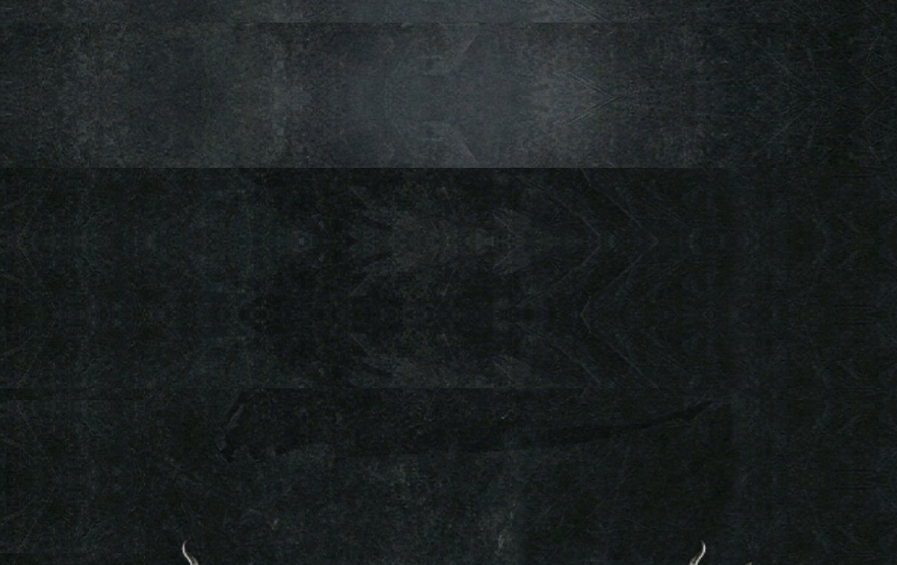
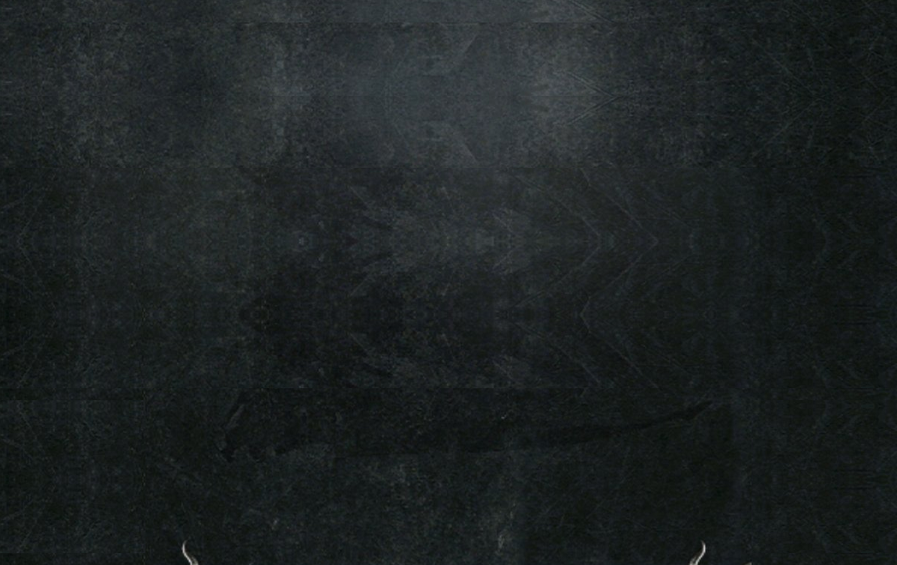
NB fix 258: panel statystyk - pasek naglowka bez smugi, wyrownane tlo, mniejsza cyfra poziomu
Claude-Session: https://claude.ai/code/session_01PSGYEJmVkg4WVFFgdv2sey

Changed region(s): [[0.4682, 0.2708, 0.5931, 0.3912]]

diff --git a/common/ui/gamemenu.cpp b/common/ui/gamemenu.cpp
@@ -1019,8 +1019,11 @@ void GameMenu::paintNbStatus(Painter& p) {
 
   // the level in the badge
   {
-    auto fLvl = fontOf(true,nbFitPx(true,"31",int(56.f*g.k)),Gold);
+    // the size from "31" of the PC, a little smaller (the digits of 39 are wider than "1"), and never wider than the badge
     const std::string t = std::to_string(nbStatLevel);
+    auto fLvl = fontOf(true,nbFitPx(true,"31",int(56.f*g.k))*85/100,Gold);
+    if(fLvl.textSize(t).w>int(62.f*g.k))
+      fLvl = fontOf(true,fLvl.pixelSize()*int(62.f*g.k)/std::max(1,fLvl.textSize(t).w),Gold);
     fLvl.drawText(p,g.badge.x-fLvl.textSize(t).w/2,g.badge.y+fLvl.pixelSize()/3,t);
     }
   }
